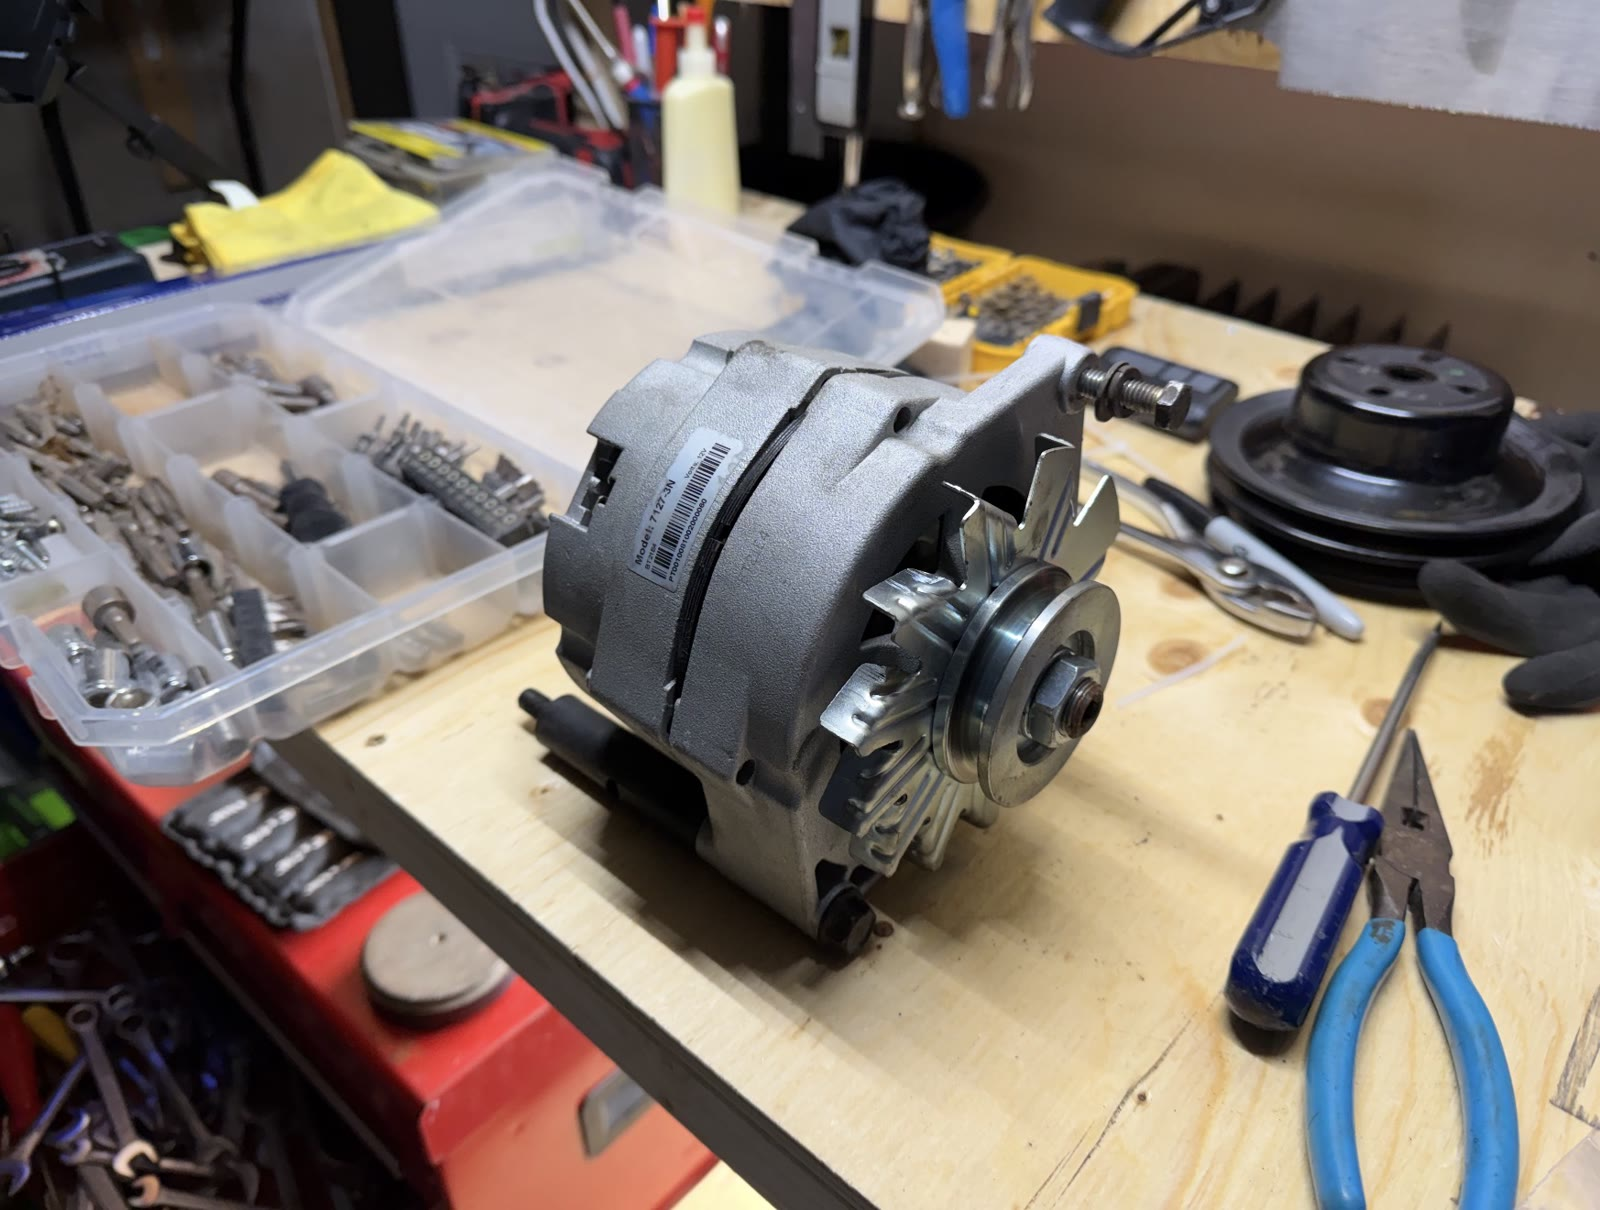
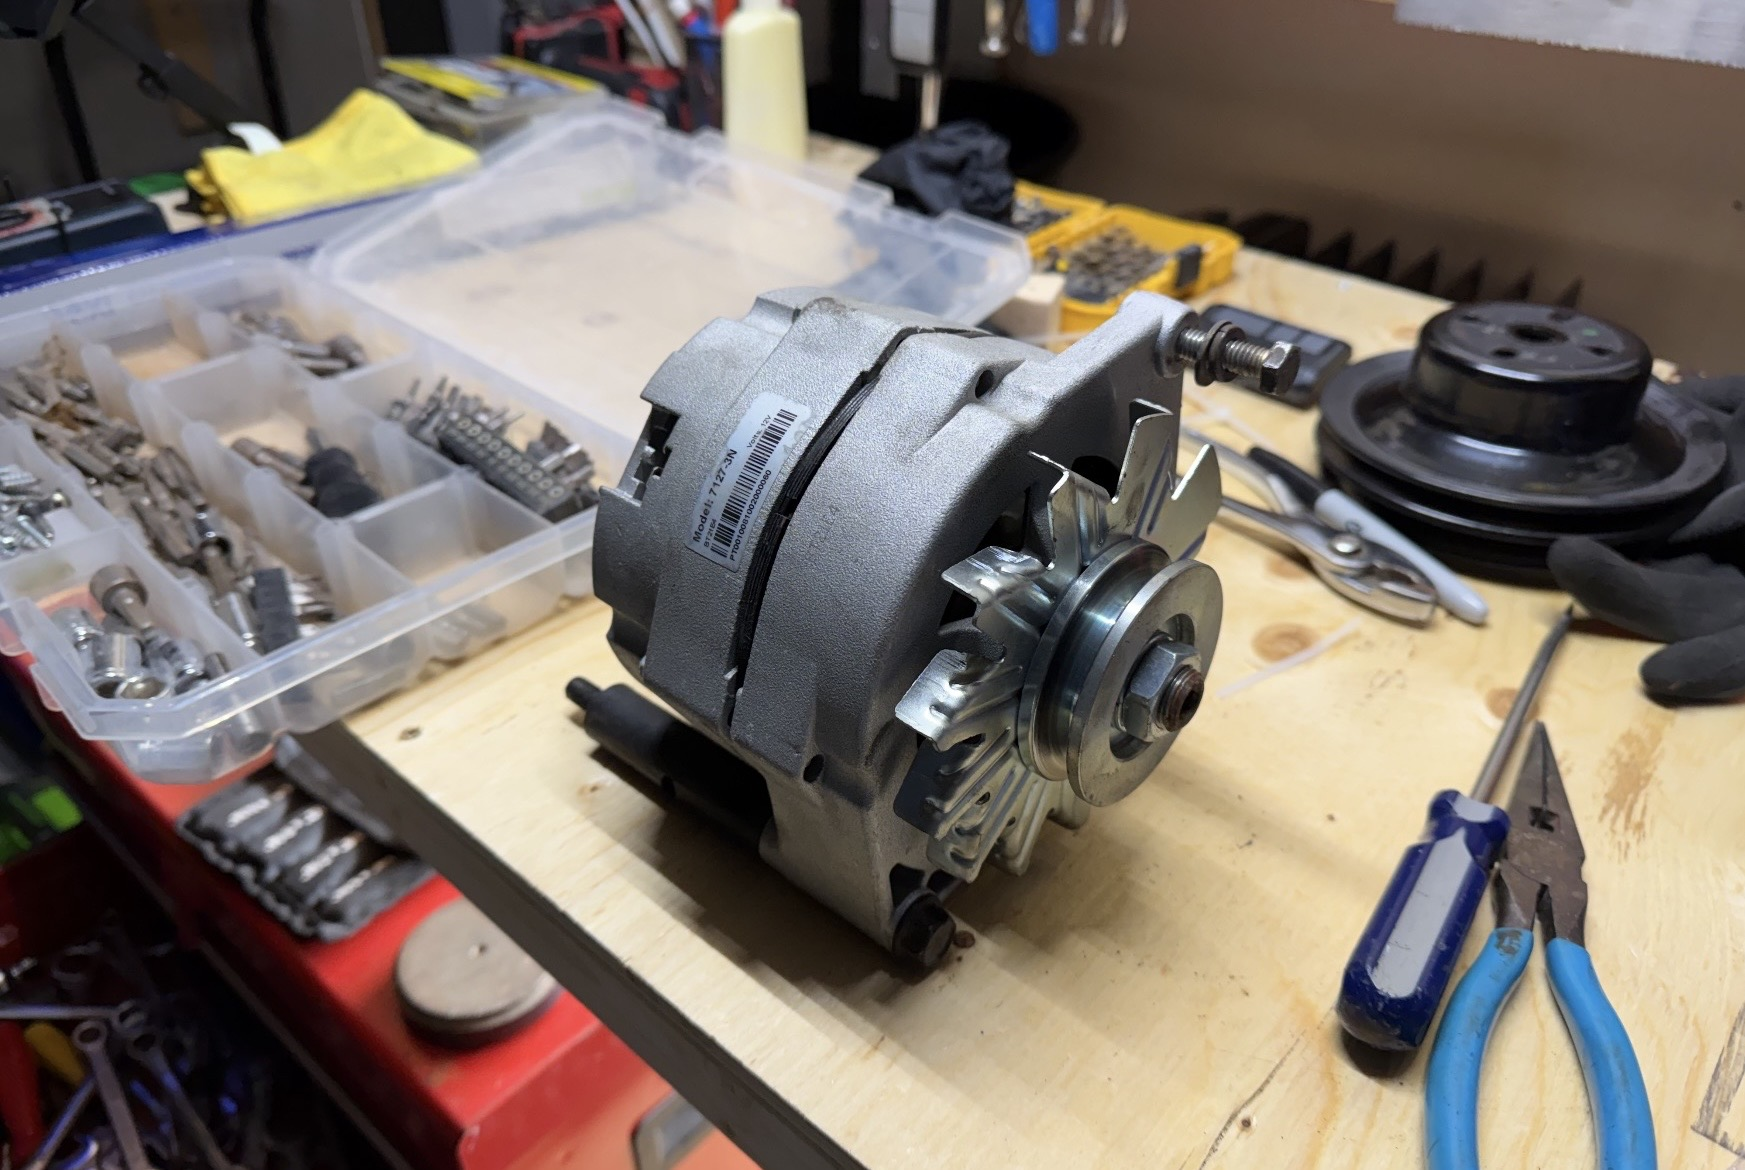
Trim the alternator and pulley photos and even the pairs.
Use one 5:3 frame so both side-by-side rows share a height and the taller shots crop top and bottom.

diff --git a/projects/water-pump/index.html b/projects/water-pump/index.html
@@ -104,7 +104,7 @@
       width: 100%;
       height: 100%;
       min-height: 0;
-      aspect-ratio: 4 / 3;
+      aspect-ratio: 5 / 3;
       object-fit: cover;
       object-position: center;
       border-radius: 8px;
@@ -167,14 +167,14 @@
       </div>
       <img
         class="shot zoomable"
-        src="../../assets/projects/water-pump/01.jpg?v=2"
-        data-full="../../assets/projects/water-pump/01.jpg?v=2"
+        src="../../assets/projects/water-pump/01.jpg?v=3"
+        data-full="../../assets/projects/water-pump/01.jpg?v=3"
         alt="Old water pump still on the engine"
         width="2400"
         height="1104"
       />
       <div class="pair">
-        <img class="zoomable" src="../../assets/projects/water-pump/02.jpg?v=3" data-full="../../assets/projects/water-pump/02.jpg?v=3" alt="Alternator on the workbench" width="1600" height="1210" />
+        <img class="zoomable" src="../../assets/projects/water-pump/02.jpg?v=3" data-full="../../assets/projects/water-pump/02.jpg?v=3" alt="Alternator on the workbench" width="1745" height="1170" />
         <img class="zoomable" src="../../assets/projects/water-pump/03.jpg?v=3" data-full="../../assets/projects/water-pump/03.jpg?v=3" alt="Water pump on the bench with mounting bolts" width="1600" height="970" />
       </div>
       <div class="copy">
@@ -182,10 +182,10 @@
       </div>
       <img
         class="shot zoomable"
-        src="../../assets/projects/water-pump/04.jpg?v=2"
-        data-full="../../assets/projects/water-pump/04.jpg?v=2"
+        src="../../assets/projects/water-pump/04.jpg?v=3"
+        data-full="../../assets/projects/water-pump/04.jpg?v=3"
         alt="Engine bay with belts and pulleys, water pump removed"
-        width="1728"
+        width="2066"
         height="1320"
       />
       <div class="copy">
